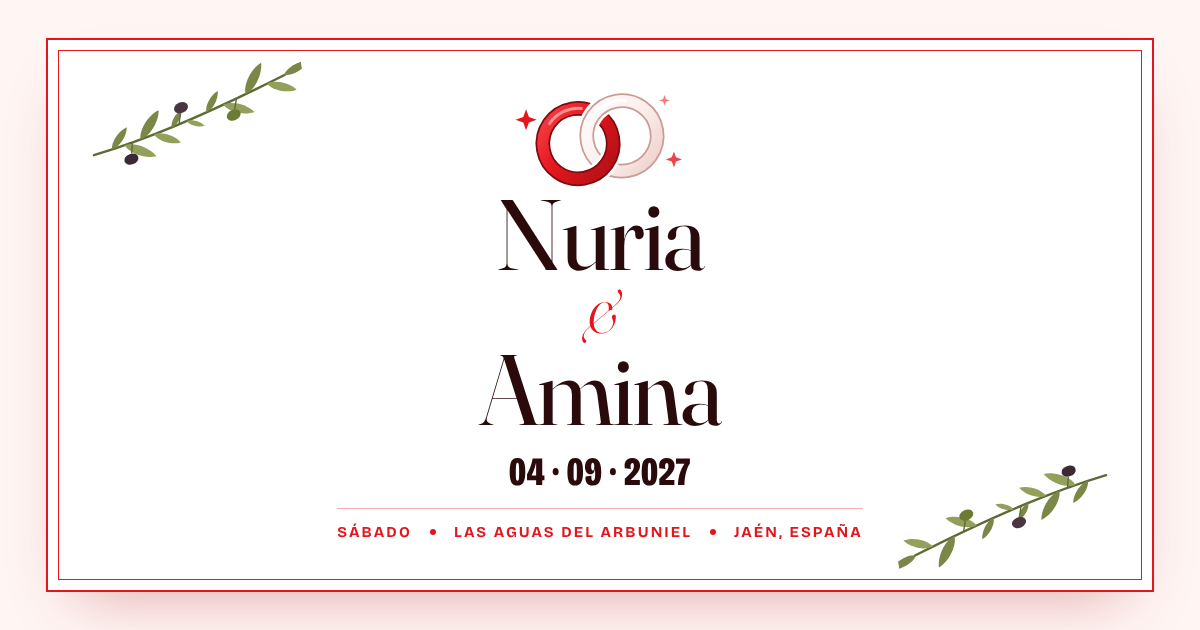
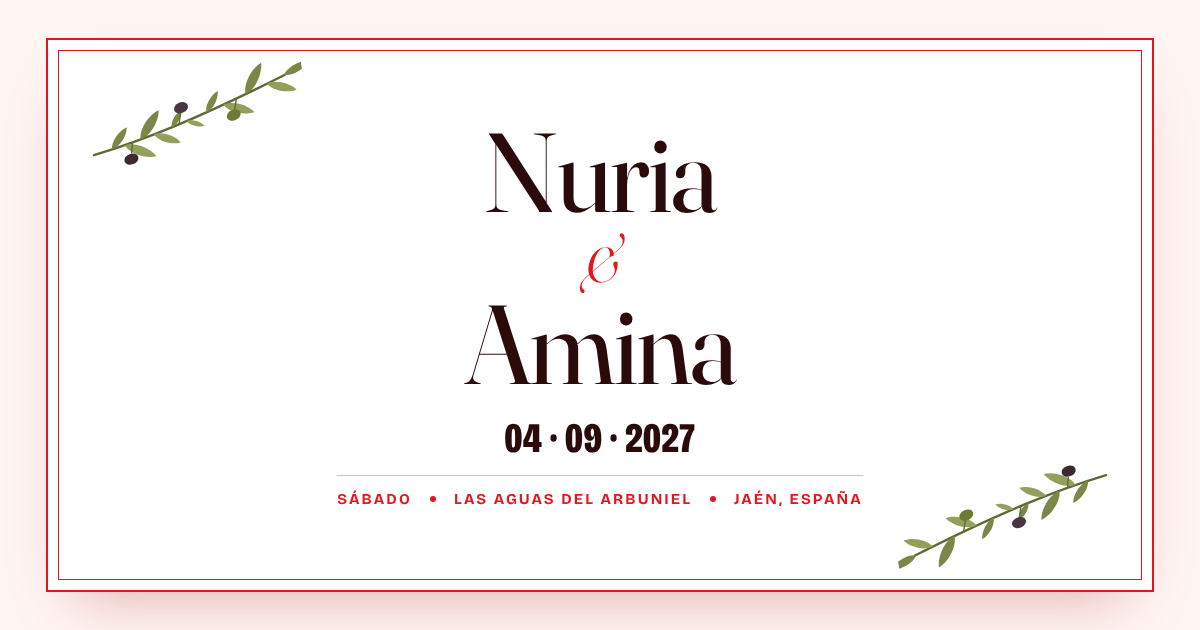
Hero: botón para confirmar asistencia en lugar de la línea del sitio; imagen de vista previa sin alianzas
Claude-Session: https://claude.ai/code/session_015Q8t5iYVqrsqvuE8ErVGYX

Changed region(s): [[0.2775, 0.4825, 0.74, 0.8746], [0.4008, 0.1508, 0.6167, 0.4524]]

diff --git a/index.html b/index.html
@@ -12,11 +12,11 @@
 <meta property="og:site_name" content="Nuria &amp; Amina">
 <meta property="og:title" content="Nuria &amp; Amina · 04.09.2027">
 <meta property="og:description" content="Nos casamos y queremos que estés. Sábado 4 de septiembre de 2027 en Las Aguas del Arbuniel, Jaén.">
-<meta property="og:image" content="https://nuria.aminix.io/og-image.png">
+<meta property="og:image" content="https://nuria.aminix.io/og-image.png?v=2">
 <meta property="og:image:type" content="image/png">
 <meta property="og:image:width" content="1200">
 <meta property="og:image:height" content="630">
-<meta property="og:image:alt" content="Nuria &amp; Amina, con dos alianzas y ramas de olivo. 04 · 09 · 2027, Las Aguas del Arbuniel, Jaén.">
+<meta property="og:image:alt" content="Nuria &amp; Amina, con ramas de olivo. 04 · 09 · 2027, Las Aguas del Arbuniel, Jaén.">
 <meta property="og:locale" content="es_ES">
 <meta property="og:locale:alternate" content="en_GB">
 <meta name="twitter:card" content="summary_large_image">
@@ -124,13 +124,8 @@ a { color: inherit; }
   margin: .02em 0 .04em;
 }
 .hero .invite { font-size: clamp(18px, 2vw, 21px); color: var(--ink); max-width: 40ch; margin: 0 auto; text-wrap: balance; }
-.hero .when {
-  display: inline-flex; flex-wrap: wrap; justify-content: center; align-items: center; gap: 10px 20px;
-  margin-top: 22px; padding-top: 18px; border-top: 1px solid rgba(227,22,30,.35);
-  font-weight: 700; letter-spacing: .14em; text-transform: uppercase; font-size: 14px;
-}
-.hero .when .dot { width: 6px; height: 6px; border-radius: 50%; background: var(--red); }
-@media (max-width: 640px) { .hero .when { flex-direction: column; gap: 6px; } .hero .when .dot { display: none; } }
+.hero .hero-cta { margin-top: 26px; margin-bottom: 4px; }
+@media (max-width: 640px) { .hero .hero-cta { margin-bottom: 34px; } }
 .date-num {
   display: block; color: var(--ink); font-family: var(--display); font-weight: 800; font-variation-settings: "opsz" 96, "wdth" 75;
   font-size: clamp(30px, 4vw, 44px); letter-spacing: .02em; margin-top: 16px; line-height: 1;
@@ -546,9 +541,7 @@ footer p { margin: 0; font-weight: 600; letter-spacing: .08em; text-transform: u
       </h1>
       <p data-i18n="k12" class="invite">Nos casamos y queremos que estés. Trae ganas de disfrutar y nosotras ponemos el resto.</p>
       <span class="date-num">04 · 09 · 2027</span>
-      <div class="when">
-        <span data-i18n="k14">Sábado</span><span class="dot"></span><span>Las Aguas del Arbuniel</span><span class="dot"></span><span data-i18n="k16">Jaén, España</span>
-      </div>
+      <a data-i18n="k220" class="btn solid-r hero-cta" href="#rsvp">Confirma tu asistencia →</a>
     </div>
   </div>
 </header>
@@ -1047,7 +1040,7 @@ footer p { margin: 0; font-weight: 600; letter-spacing: .08em; text-transform: u
 <script>
 (function () {
   // ---------- Idioma (español / inglés) ----------
-  var I18N_EN = {"k2": "Dress code", "k3": "The venue", "k4": "Travel guide", "k5": "RSVP", "k6": "Gift", "k7": "Questions", "k8": "Wedding time! ♥ Wedding time! ♥ ", "k12": "We're getting married and we'd love you to be there. Just bring your party mood, we'll take care of the rest.", "k14": "Saturday", "k16": "Jaén, Spain", "k17": "Save the date", "k18": "A party <span class=\"it\">in</span> Jaén", "k19": "A Saturday to bring all our people together, from everywhere.", "k20": "Add to Google Calendar", "k22": "days", "k23": "until 4 September 2027", "k27": "Red <span class=\"it\">and</span> white", "k28": "Red and white are our colours for the day. Come in whatever you like… but those two are taken 😉", "k29": "The venue", "k31": "<strong>Las Aguas del Arbuniel</strong>\n          Ctra. Arbuniel–Cambil, km 1<br>\n          23193 Arbuniel (Cambil), Jaén, Spain", "k32": "Open in Google Maps →", "k33": "From Jaén to the venue", "k34": "<b>There's a bus</b> there and back", "k35": "From Jaén city centre to the venue, and back again when the party's over.", "k36": "Jaén centre", "k39": "We'll send you the exact pick-up point and bus times closer to the date. <b>When you RSVP, let us know if you'll use it</b> so we can save you a seat.", "k40": "Coming from abroad", "k41": "Coming <span class=\"it\">from</span> far away?", "k42": "We've put together a guide with everything practical for getting to Jaén.", "k43": "See the guide →", "k44": "RSVP", "k45": "Are you coming? <span class=\"it\">Say yes</span>", "k46": "Full name", "k47": "If there are several of you, add everyone's names.", "k48": "Are you coming?", "k49": "Yes, I'll be there", "k50": "Can't make it", "k51": "Do you need the bus that Saturday?", "k52": "Yes", "k54": "There and back from Jaén city centre.", "k55": "Send", "k56": "Send another reply", "k57": "Gift", "k58": "Your presence <span class=\"it\">is</span> the present", "k59": "Having you there is what makes us happy. And if you'd also like to give us something, we'll leave the envelope here.", "k60": "For whatever comes next", "k61": "Account holders", "k66": "Open the envelope", "k67": "Copy IBAN", "k68": "Sample IBAN", "k69": "Any questions?", "k70": "You know where to find us.", "k71": "← Back to the invitation", "k72": "Guide for out-of-towners", "k73": "Jaén <span class=\"it\">for</span> visitors", "k74": "Everything practical for coming to the wedding from outside Jaén, or from outside Spain.", "k75": "Getting there", "k76": "Where to stay", "k77": "Getting around", "k78": "What to order", "k79": "Tapas", "k80": "Welcome to Jaén", "k81": "Almost 70 million <span class=\"it\">olive</span> trees", "k82": "The province of Jaén produces more olive oil than the whole of Italy: around one in every five litres made in the world. That's why its landscape is known as the sea of olive trees.", "k83": "Where is Jaén?", "k84": "Jaén is a city and a province in Andalusia, the autonomous region in the south of Spain. Andalusia is famous for its beaches, sunshine, flamenco, tapas and landmarks such as the Alhambra in Granada and the Mezquita in Córdoba. It has eight provinces:", "k90": "Jaén <span>· you're here</span>", "k92": "Seville", "k93": "Getting there", "k94": "To Jaén <span class=\"it\">from</span> afar", "k95": "The most convenient airports are Madrid and Málaga. From there to Jaén:", "k96": "From Madrid", "k98": "approx. by direct train from Madrid to Jaén.", "k99": "From Málaga", "k101": "approx. by coach, leaving from the airport itself.", "k102": "Look for a direct train: with a change it can take a lot longer.", "k103": "Where to stay", "k104": "Close <span class=\"it\">to the</span> Cathedral", "k105": "We recommend staying in the centre. It's the prettiest area, you can walk everywhere and it's full of bars.", "k106": "★ Our top pick", "k109": "Terrace with views of the Cathedral, about a 7-minute walk away.", "k110": "See on Google Maps →", "k113": "A Jaén classic on the main avenue, with a pool. About a 10-minute walk from the train station.", "k114": "See on Google Maps →", "k116": "Old town", "k117": "About 100 metres from the Cathedral, with a rooftop terrace.", "k118": "See on Google Maps →", "k119": "The Cathedral on Google Maps →", "k120": "Search on Airbnb →", "k121": "Getting around", "k122": "Around <span class=\"it\">the</span> centre", "k123": "<b>On foot</b>The centre is small. From the Cathedral you can walk almost everywhere.", "k124": "<b>Bus station</b>Right in the centre, about a 10-minute walk from the Cathedral.", "k125": "<b>Train station</b>1.5 km from the centre: about a 20-minute walk or a short taxi ride.", "k126": "Heads up: there's no Uber in Jaén", "k129": "iPhone app", "k130": "Android app", "k133": "You won't need one for the wedding: <a href=\"#lugar\">there's a bus from the centre</a>.", "k134": "What to order", "k135": "Eat <span class=\"it\">like</span> a local", "k136": "Local specialities", "k138": "A fresh salad of tomato, pepper and garlic with good olive oil, often with boiled egg and tuna. The queen of summer.", "k140": "Juicy rice, halfway between a paella and a soup. Many bars serve it as a tapa.", "k142": "Fried breadcrumbs with garlic, chorizo and pancetta. Hearty and delicious.", "k144": "Jaén's breakfast: toast with ham or other toppings and cheese grilled on top.", "k146": "A round, ring-shaped loaf filled like a big sandwich: pork loin, ham, whatever you fancy. Perfect for sharing.", "k148": "Freshly made, with thick hot chocolate for dipping.", "k149": "And the Spanish classics", "k150": "<b>Flamenquín</b>Pork loin rolled with ham, breaded and fried.", "k151": "<b>Tortilla de patatas</b>Spanish omelette, with or without onion: the eternal debate.", "k152": "<b>Croquetas</b>Ham, salt cod, or whatever they've made that day.", "k153": "<b>Calamares</b>Fried squid, as a portion or in a sandwich.", "k154": "<b>Pincho moruno</b>A skewer of spiced, marinated meat.", "k155": "<b>Papas al alioli</b>Potatoes in garlic mayonnaise.", "k156": "<b>Solomillo</b>Pork tenderloin, grilled or in a sauce.", "k157": "<b>Pan con tomate y jamón</b>Toast with grated tomato, Jaén olive oil and ham.", "k158": "Tapas", "k159": "The tapa <span class=\"it\">is</span> free", "k160": "In Jaén, every drink comes with a free tapa. The best area is around the Cathedral, especially Calle Arco del Consuelo. And for breakfast, do as the locals do: toast with Jaén olive oil.", "k161": "For tapas", "k164": "An old-school tavern next to the Cathedral, with your bill chalked up as you go. Order the partridge pâté or the pipirrana.", "k165": "See on Google Maps →", "k168": "A classic tavern on the same street as the Gorrión. Perfect for hopping from one to the next.", "k169": "See on Google Maps →", "k172": "Open since 1886. Jaén's most legendary tavern.", "k173": "See on Google Maps →", "k176": "An old-town classic. The house speciality is migas.", "k177": "See on Google Maps →", "k180": "A family-run bar since 1972, with a terrace on the square. Always packed.", "k181": "See on Google Maps →", "k183": "Opposite the Cathedral", "k184": "Jaén's go-to seafood bar since 1974.", "k185": "See on Google Maps →", "k186": "For a sit-down meal (and breakfast)", "k188": "<b>Mind the times:</b> in Spain lunch is around 2pm and many restaurants don't open their kitchens until then. Dinner is from 9pm.", "k190": "Near the Cathedral", "k191": "Traditional food in a beautiful old building with columns and tiles. Generous portions; it fills up, so book ahead.", "k192": "See on Google Maps →", "k194": "San Ildefonso neighbourhood", "k195": "Open since 1948 and known as «the migas bar». You know what to order.", "k196": "See on Google Maps →", "k198": "With views of the castle", "k199": "An old-school bar with good prices and generous portions. Try the aubergine with cane honey.", "k200": "See on Google Maps →", "k202": "For lunch", "k203": "A bit further from the centre, with a terrace and views of the mountains. Go at lunchtime: at night you can't see a thing and it's not worth it. Order the rosca or the mejillones tigre (breaded stuffed mussels).", "k204": "See on Google Maps →", "k206": "Breakfast", "k207": "Start the day with tostadas gratinadas and a good coffee.", "k208": "See on Google Maps →", "k210": "Churros", "k211": "Churros and hot chocolate for breakfast or an afternoon treat.", "k212": "See on Google Maps →", "k214": "Fine dining", "k215": "For a treat: a tiny restaurant recognised by the Michelin Guide. Book well in advance.", "k216": "See on Google Maps →", "k217": "← Back to the invitation", "k219": "04.09.2027 · Las Aguas del Arbuniel · Jaén, Spain"};
+  var I18N_EN = {"k2": "Dress code", "k3": "The venue", "k4": "Travel guide", "k5": "RSVP", "k6": "Gift", "k7": "Questions", "k8": "Wedding time! ♥ Wedding time! ♥ ", "k12": "We're getting married and we'd love you to be there. Just bring your party mood, we'll take care of the rest.", "k220": "RSVP →", "k17": "Save the date", "k18": "A party <span class=\"it\">in</span> Jaén", "k19": "A Saturday to bring all our people together, from everywhere.", "k20": "Add to Google Calendar", "k22": "days", "k23": "until 4 September 2027", "k27": "Red <span class=\"it\">and</span> white", "k28": "Red and white are our colours for the day. Come in whatever you like… but those two are taken 😉", "k29": "The venue", "k31": "<strong>Las Aguas del Arbuniel</strong>\n          Ctra. Arbuniel–Cambil, km 1<br>\n          23193 Arbuniel (Cambil), Jaén, Spain", "k32": "Open in Google Maps →", "k33": "From Jaén to the venue", "k34": "<b>There's a bus</b> there and back", "k35": "From Jaén city centre to the venue, and back again when the party's over.", "k36": "Jaén centre", "k39": "We'll send you the exact pick-up point and bus times closer to the date. <b>When you RSVP, let us know if you'll use it</b> so we can save you a seat.", "k40": "Coming from abroad", "k41": "Coming <span class=\"it\">from</span> far away?", "k42": "We've put together a guide with everything practical for getting to Jaén.", "k43": "See the guide →", "k44": "RSVP", "k45": "Are you coming? <span class=\"it\">Say yes</span>", "k46": "Full name", "k47": "If there are several of you, add everyone's names.", "k48": "Are you coming?", "k49": "Yes, I'll be there", "k50": "Can't make it", "k51": "Do you need the bus that Saturday?", "k52": "Yes", "k54": "There and back from Jaén city centre.", "k55": "Send", "k56": "Send another reply", "k57": "Gift", "k58": "Your presence <span class=\"it\">is</span> the present", "k59": "Having you there is what makes us happy. And if you'd also like to give us something, we'll leave the envelope here.", "k60": "For whatever comes next", "k61": "Account holders", "k66": "Open the envelope", "k67": "Copy IBAN", "k68": "Sample IBAN", "k69": "Any questions?", "k70": "You know where to find us.", "k71": "← Back to the invitation", "k72": "Guide for out-of-towners", "k73": "Jaén <span class=\"it\">for</span> visitors", "k74": "Everything practical for coming to the wedding from outside Jaén, or from outside Spain.", "k75": "Getting there", "k76": "Where to stay", "k77": "Getting around", "k78": "What to order", "k79": "Tapas", "k80": "Welcome to Jaén", "k81": "Almost 70 million <span class=\"it\">olive</span> trees", "k82": "The province of Jaén produces more olive oil than the whole of Italy: around one in every five litres made in the world. That's why its landscape is known as the sea of olive trees.", "k83": "Where is Jaén?", "k84": "Jaén is a city and a province in Andalusia, the autonomous region in the south of Spain. Andalusia is famous for its beaches, sunshine, flamenco, tapas and landmarks such as the Alhambra in Granada and the Mezquita in Córdoba. It has eight provinces:", "k90": "Jaén <span>· you're here</span>", "k92": "Seville", "k93": "Getting there", "k94": "To Jaén <span class=\"it\">from</span> afar", "k95": "The most convenient airports are Madrid and Málaga. From there to Jaén:", "k96": "From Madrid", "k98": "approx. by direct train from Madrid to Jaén.", "k99": "From Málaga", "k101": "approx. by coach, leaving from the airport itself.", "k102": "Look for a direct train: with a change it can take a lot longer.", "k103": "Where to stay", "k104": "Close <span class=\"it\">to the</span> Cathedral", "k105": "We recommend staying in the centre. It's the prettiest area, you can walk everywhere and it's full of bars.", "k106": "★ Our top pick", "k109": "Terrace with views of the Cathedral, about a 7-minute walk away.", "k110": "See on Google Maps →", "k113": "A Jaén classic on the main avenue, with a pool. About a 10-minute walk from the train station.", "k114": "See on Google Maps →", "k116": "Old town", "k117": "About 100 metres from the Cathedral, with a rooftop terrace.", "k118": "See on Google Maps →", "k119": "The Cathedral on Google Maps →", "k120": "Search on Airbnb →", "k121": "Getting around", "k122": "Around <span class=\"it\">the</span> centre", "k123": "<b>On foot</b>The centre is small. From the Cathedral you can walk almost everywhere.", "k124": "<b>Bus station</b>Right in the centre, about a 10-minute walk from the Cathedral.", "k125": "<b>Train station</b>1.5 km from the centre: about a 20-minute walk or a short taxi ride.", "k126": "Heads up: there's no Uber in Jaén", "k129": "iPhone app", "k130": "Android app", "k133": "You won't need one for the wedding: <a href=\"#lugar\">there's a bus from the centre</a>.", "k134": "What to order", "k135": "Eat <span class=\"it\">like</span> a local", "k136": "Local specialities", "k138": "A fresh salad of tomato, pepper and garlic with good olive oil, often with boiled egg and tuna. The queen of summer.", "k140": "Juicy rice, halfway between a paella and a soup. Many bars serve it as a tapa.", "k142": "Fried breadcrumbs with garlic, chorizo and pancetta. Hearty and delicious.", "k144": "Jaén's breakfast: toast with ham or other toppings and cheese grilled on top.", "k146": "A round, ring-shaped loaf filled like a big sandwich: pork loin, ham, whatever you fancy. Perfect for sharing.", "k148": "Freshly made, with thick hot chocolate for dipping.", "k149": "And the Spanish classics", "k150": "<b>Flamenquín</b>Pork loin rolled with ham, breaded and fried.", "k151": "<b>Tortilla de patatas</b>Spanish omelette, with or without onion: the eternal debate.", "k152": "<b>Croquetas</b>Ham, salt cod, or whatever they've made that day.", "k153": "<b>Calamares</b>Fried squid, as a portion or in a sandwich.", "k154": "<b>Pincho moruno</b>A skewer of spiced, marinated meat.", "k155": "<b>Papas al alioli</b>Potatoes in garlic mayonnaise.", "k156": "<b>Solomillo</b>Pork tenderloin, grilled or in a sauce.", "k157": "<b>Pan con tomate y jamón</b>Toast with grated tomato, Jaén olive oil and ham.", "k158": "Tapas", "k159": "The tapa <span class=\"it\">is</span> free", "k160": "In Jaén, every drink comes with a free tapa. The best area is around the Cathedral, especially Calle Arco del Consuelo. And for breakfast, do as the locals do: toast with Jaén olive oil.", "k161": "For tapas", "k164": "An old-school tavern next to the Cathedral, with your bill chalked up as you go. Order the partridge pâté or the pipirrana.", "k165": "See on Google Maps →", "k168": "A classic tavern on the same street as the Gorrión. Perfect for hopping from one to the next.", "k169": "See on Google Maps →", "k172": "Open since 1886. Jaén's most legendary tavern.", "k173": "See on Google Maps →", "k176": "An old-town classic. The house speciality is migas.", "k177": "See on Google Maps →", "k180": "A family-run bar since 1972, with a terrace on the square. Always packed.", "k181": "See on Google Maps →", "k183": "Opposite the Cathedral", "k184": "Jaén's go-to seafood bar since 1974.", "k185": "See on Google Maps →", "k186": "For a sit-down meal (and breakfast)", "k188": "<b>Mind the times:</b> in Spain lunch is around 2pm and many restaurants don't open their kitchens until then. Dinner is from 9pm.", "k190": "Near the Cathedral", "k191": "Traditional food in a beautiful old building with columns and tiles. Generous portions; it fills up, so book ahead.", "k192": "See on Google Maps →", "k194": "San Ildefonso neighbourhood", "k195": "Open since 1948 and known as «the migas bar». You know what to order.", "k196": "See on Google Maps →", "k198": "With views of the castle", "k199": "An old-school bar with good prices and generous portions. Try the aubergine with cane honey.", "k200": "See on Google Maps →", "k202": "For lunch", "k203": "A bit further from the centre, with a terrace and views of the mountains. Go at lunchtime: at night you can't see a thing and it's not worth it. Order the rosca or the mejillones tigre (breaded stuffed mussels).", "k204": "See on Google Maps →", "k206": "Breakfast", "k207": "Start the day with tostadas gratinadas and a good coffee.", "k208": "See on Google Maps →", "k210": "Churros", "k211": "Churros and hot chocolate for breakfast or an afternoon treat.", "k212": "See on Google Maps →", "k214": "Fine dining", "k215": "For a treat: a tiny restaurant recognised by the Michelin Guide. Book well in advance.", "k216": "See on Google Maps →", "k217": "← Back to the invitation", "k219": "04.09.2027 · Las Aguas del Arbuniel · Jaén, Spain"};
   var I18N_JS = {"es": {"navLabel": "Secciones", "countLabel": "Cuenta atrás", "tocLabel": "Secciones de la guía", "namePh": "Ej.: Ana López y Pablo Ruiz", "errName": "Escribe tu nombre, por favor.", "errAttend": "Cuéntanos si vienes o no.", "errBus": "Cuéntanos si necesitas el bus.", "preview": "Vista previa: el formulario todavía no está conectado.", "sending": "Enviando…", "send": "Enviar", "thanksYes": "Qué ilusión, ", "thanksNo": "Te echaremos de menos, ", "and": " y ", "seeYou": "Nos vemos el 4 de septiembre en Las Aguas del Arbuniel.", "busSaved": " Te guardamos sitio en el bus.", "thanksNote": "Gracias por avisarnos.", "sendErr": "No se ha podido enviar. Revisa tu conexión y vuelve a intentarlo.", "today": "¡Hoy!", "openEnv": "Abrir el sobre", "closeEnv": "Cerrar el sobre", "copied": "¡Copiado!", "copyManual": "Cópialo a mano: "}, "en": {"navLabel": "Sections", "countLabel": "Countdown", "tocLabel": "Guide sections", "namePh": "E.g. Ana López and Pablo Ruiz", "errName": "Please write your name.", "errAttend": "Let us know if you're coming.", "errBus": "Let us know if you need the bus.", "preview": "Preview: the form isn't connected yet.", "sending": "Sending…", "send": "Send", "thanksYes": "We can't wait, ", "thanksNo": "We'll miss you, ", "and": " and ", "seeYou": "See you on 4 September at Las Aguas del Arbuniel.", "busSaved": " We'll save you a seat on the bus.", "thanksNote": "Thanks for letting us know.", "sendErr": "We couldn't send it. Check your connection and try again.", "today": "Today!", "openEnv": "Open the envelope", "closeEnv": "Close the envelope", "copied": "Copied!", "copyManual": "Copy it manually: "}};
   var I18N_ES = {};
   var i18nEls = document.querySelectorAll('[data-i18n]');

diff --git a/og/og-image.html b/og/og-image.html
@@ -24,18 +24,17 @@ body { background: var(--blush); position: relative; -webkit-font-smoothing: ant
 .branch { position: absolute; width: 226px; aspect-ratio: 230 / 100; }
 .branch.tl { top: 30px; left: 34px; transform: rotate(-8deg); }
 .branch.br { bottom: 30px; right: 34px; transform: rotate(172deg); }
-.rings { width: 176px; height: 108px; margin-bottom: 0; margin-top: -8px; }
 .names {
   color: var(--ink); font-family: var(--serif); font-weight: 400;
   font-variation-settings: "opsz" 144;
-  font-size: 100px; line-height: .9; letter-spacing: -.02em;
+  font-size: 112px; line-height: .9; letter-spacing: -.02em;
 }
 .names span { display: block; }
 .names .amp { font-style: italic; font-weight: 300; color: var(--red); font-size: .6em; line-height: 1; margin: .02em 0 .05em; }
 .date-num {
   color: var(--ink); font-family: var(--display); font-weight: 800;
   font-variation-settings: "opsz" 96, "wdth" 75;
-  font-size: 40px; letter-spacing: .02em; line-height: 1; margin-top: 18px;
+  font-size: 42px; letter-spacing: .02em; line-height: 1; margin-top: 22px;
 }
 .when {
   display: inline-flex; align-items: center; gap: 18px;
@@ -55,48 +54,6 @@ body { background: var(--blush); position: relative; -webkit-font-smoothing: ant
 <div class="card">
   <svg class="branch tl" viewBox="0 0 230 100"><use href="#olive-branch"/></svg>
   <svg class="branch br" viewBox="0 0 230 100"><use href="#olive-branch"/></svg>
-
-  <!-- Dos alianzas entrelazadas: una roja (Nuria) y una blanca (Amina) -->
-  <svg class="rings" viewBox="0 0 150 92" aria-hidden="true">
-    <defs>
-      <linearGradient id="gRed" gradientUnits="userSpaceOnUse" x1="-36" y1="-36" x2="36" y2="36">
-        <stop offset="0" stop-color="#FF4A50"/><stop offset=".45" stop-color="#E3161E"/><stop offset="1" stop-color="#A50E14"/>
-      </linearGradient>
-      <linearGradient id="gWhite" gradientUnits="userSpaceOnUse" x1="-36" y1="-36" x2="36" y2="36">
-        <stop offset="0" stop-color="#FFFFFF"/><stop offset=".55" stop-color="#FBEDEA"/><stop offset="1" stop-color="#EBC7C1"/>
-      </linearGradient>
-      <g id="ringWhite">
-        <circle r="30" fill="none" stroke="#C99C96" stroke-width="12.5"/>
-        <circle r="30" fill="none" stroke="url(#gWhite)" stroke-width="9.5"/>
-        <path d="M -21 -21 A 30 30 0 0 1 8 -29" fill="none" stroke="#FFFFFF" stroke-width="2.6" stroke-linecap="round"/>
-      </g>
-      <g id="ringRed">
-        <circle r="30" fill="none" stroke="#7E0A0F" stroke-width="12.5"/>
-        <circle r="30" fill="none" stroke="url(#gRed)" stroke-width="9.5"/>
-        <path d="M -21 -21 A 30 30 0 0 1 8 -29" fill="none" stroke="#FF9A9D" stroke-width="2.6" stroke-linecap="round" opacity=".9"/>
-      </g>
-      <!-- Arriba la alianza blanca pasa por delante (hueco en la roja); abajo, al revés -->
-      <mask id="cutRed" maskUnits="userSpaceOnUse" maskContentUnits="userSpaceOnUse" x="-20" y="-20" width="190" height="140">
-        <rect x="-20" y="-20" width="190" height="140" fill="#fff"/>
-        <path d="M 60 0 H 90 V 40 H 60 Z" fill="none"/>
-        <circle cx="94" cy="50" r="30" fill="none" stroke="#000" stroke-width="17" clip-path="url(#topBox)"/>
-      </mask>
-      <mask id="cutWhite" maskUnits="userSpaceOnUse" maskContentUnits="userSpaceOnUse" x="-20" y="-20" width="190" height="140">
-        <rect x="-20" y="-20" width="190" height="140" fill="#fff"/>
-        <circle cx="56" cy="50" r="30" fill="none" stroke="#000" stroke-width="17" clip-path="url(#bottomBox)"/>
-      </mask>
-      <clipPath id="topBox"><rect x="58" y="-10" width="34" height="50"/></clipPath>
-      <clipPath id="bottomBox"><rect x="58" y="60" width="34" height="50"/></clipPath>
-    </defs>
-    <!-- destellos -->
-    <path d="M12 24 l2.4 6.6 6.6 2.4 -6.6 2.4 -2.4 6.6 -2.4 -6.6 -6.6 -2.4 6.6 -2.4z" fill="#E3161E"/>
-    <path d="M138 60 l1.8 5 5 1.8 -5 1.8 -1.8 5 -1.8 -5 -5 -1.8 5 -1.8z" fill="#E3161E" opacity=".8"/>
-    <path d="M130 12 l1.2 3.3 3.3 1.2 -3.3 1.2 -1.2 3.3 -1.2 -3.3 -3.3 -1.2 3.3 -1.2z" fill="#E3161E" opacity=".55"/>
-    <g transform="rotate(-10 75 50)">
-      <g mask="url(#cutWhite)"><use href="#ringWhite" transform="translate(94 50)"/></g>
-      <g mask="url(#cutRed)"><use href="#ringRed" transform="translate(56 50)"/></g>
-    </g>
-  </svg>
 
   <h1 class="names"><span>Nuria</span><span class="amp">&amp;</span><span>Amina</span></h1>
   <span class="date-num">04 · 09 · 2027</span>
